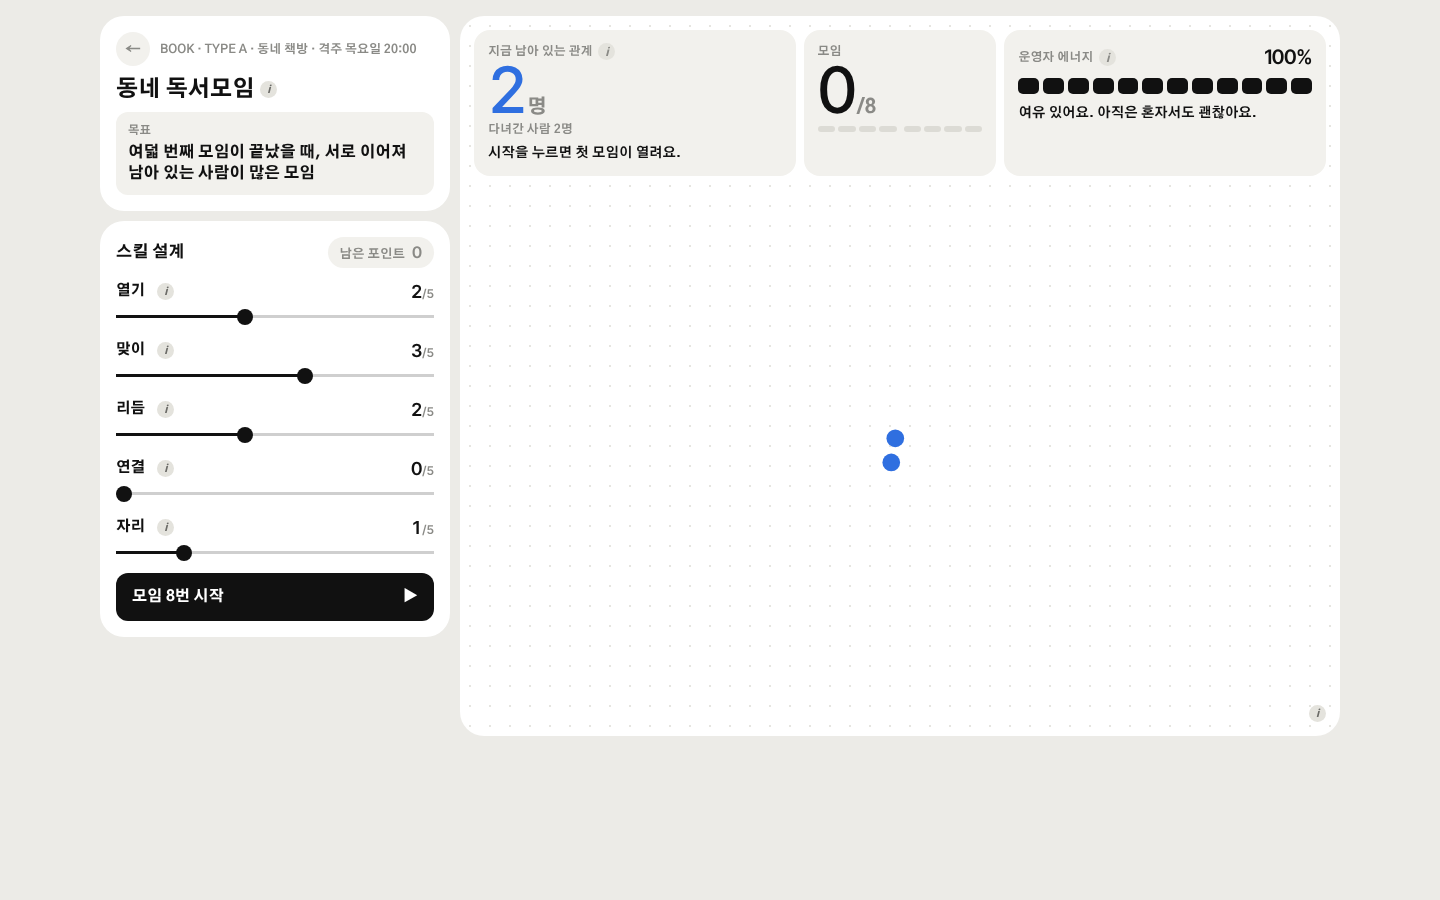
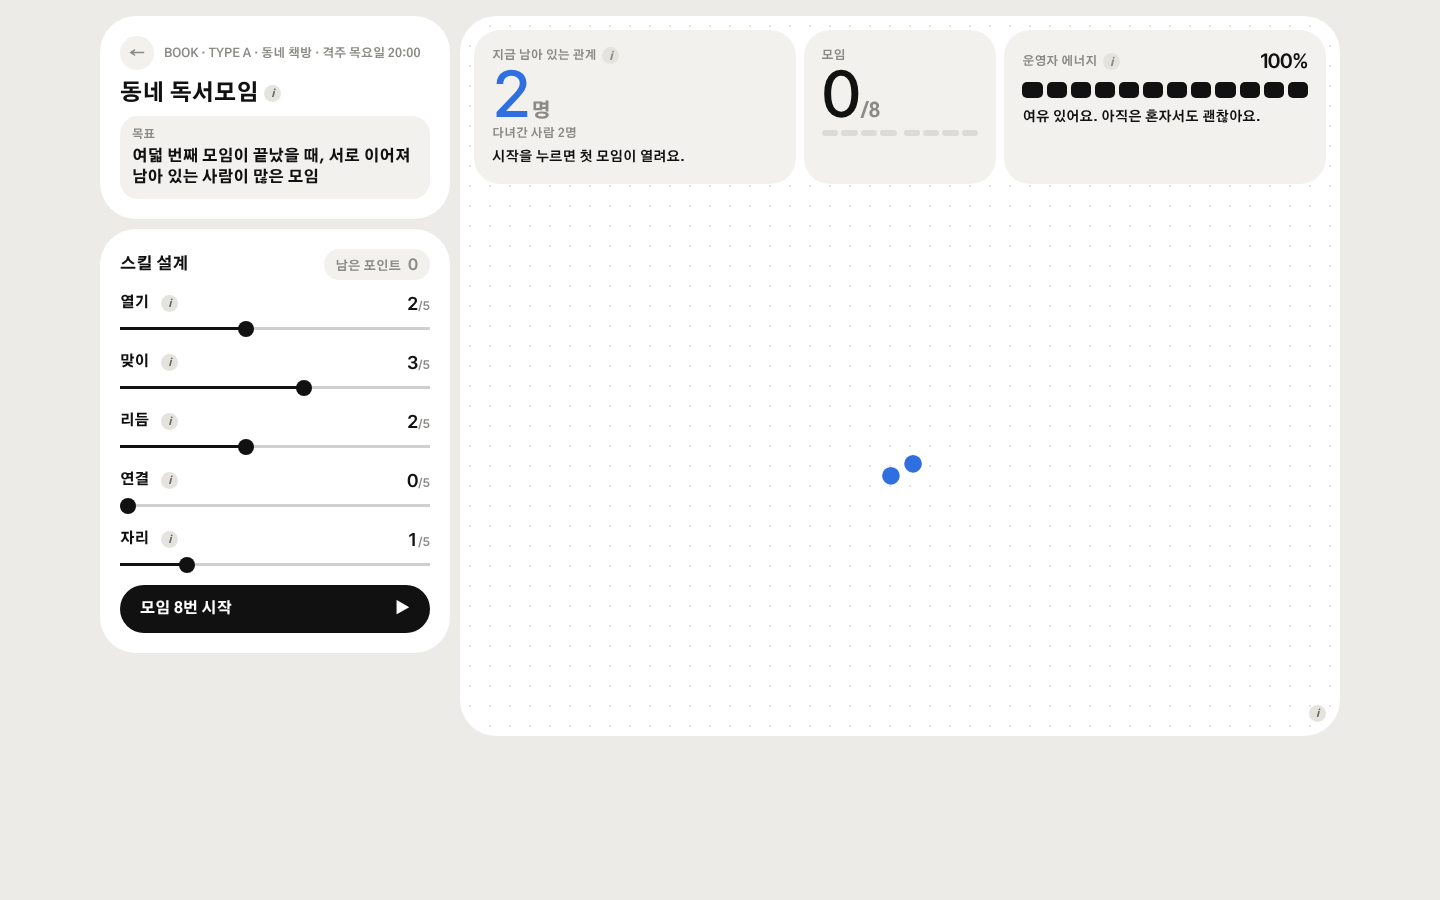
게임 v1.6 시안: radius 키움 (상자 36·26·18, 버튼 알약 모양)
Claude-Session: https://claude.ai/code/session_01SaCvLutmawHZS3kxPWYxw7

diff --git a/thesis/game/moim.v07.src.html b/thesis/game/moim.v07.src.html
@@ -548,6 +548,14 @@ body{background:var(--page)}
 .maplab2{display:flex;align-items:center;gap:6px;flex-direction:row-reverse}
 .maplab2 .info{margin-left:0}
 .maplab2 .info .tip{top:auto;bottom:calc(100% + 8px)}
+
+/* ───────── v1.6 radius 더 크게 ───────── */
+:root{--r-lg:36px;--r-md:26px;--r-sm:18px}
+.pcard,.panel .pcard{padding:20px}
+.btn{border-radius:999px;padding-inline:20px}
+.ov{padding:16px 18px}
+.goal3,.legend div,.c2-m .cell,.e-cells .cell,.lvl2{border-radius:var(--r-sm)}
+.info .tip,.htip{border-radius:var(--r-sm)}
 @media (prefers-reduced-motion:reduce){*{transition:none!important;animation:none!important}}
 </style>
 

diff --git a/thesis/26-game-prototype.md b/thesis/26-game-prototype.md
@@ -139,3 +139,6 @@
 - 시뮬레이션 끝: 여덟 번째 모임 뒤 점들 뒤로 첫 화면과 같은 원 그림이 1.4초 동안 자라나 겹침 → 그 장면이 결과 화면의 EVIDENCE 사진이 됨. 첫 화면으로 돌아가면 방금 만든 모임이 지도 한가운데에 점선 고리로 표시
 - 원 그림은 glyphParts() 하나로 정의해 첫 화면(SVG)과 시뮬레이션 끝(캔버스)이 같은 모양을 씀
 - 글꼴: Gothic A1 (OFL) Regular·Bold·ExtraBold를 KS X 1001 + 영문으로 서브셋해 넣음 (약 550KB, KoddiUD 원본보다 가벼움)
+
+## v1.6 시안 (2026-10-28)
+- 연구자 요청: radius 더 크게 → 큰 상자 24→36, 중간 16→26, 작은 칸 12→18, 버튼은 알약 모양(완전히 둥글게)
